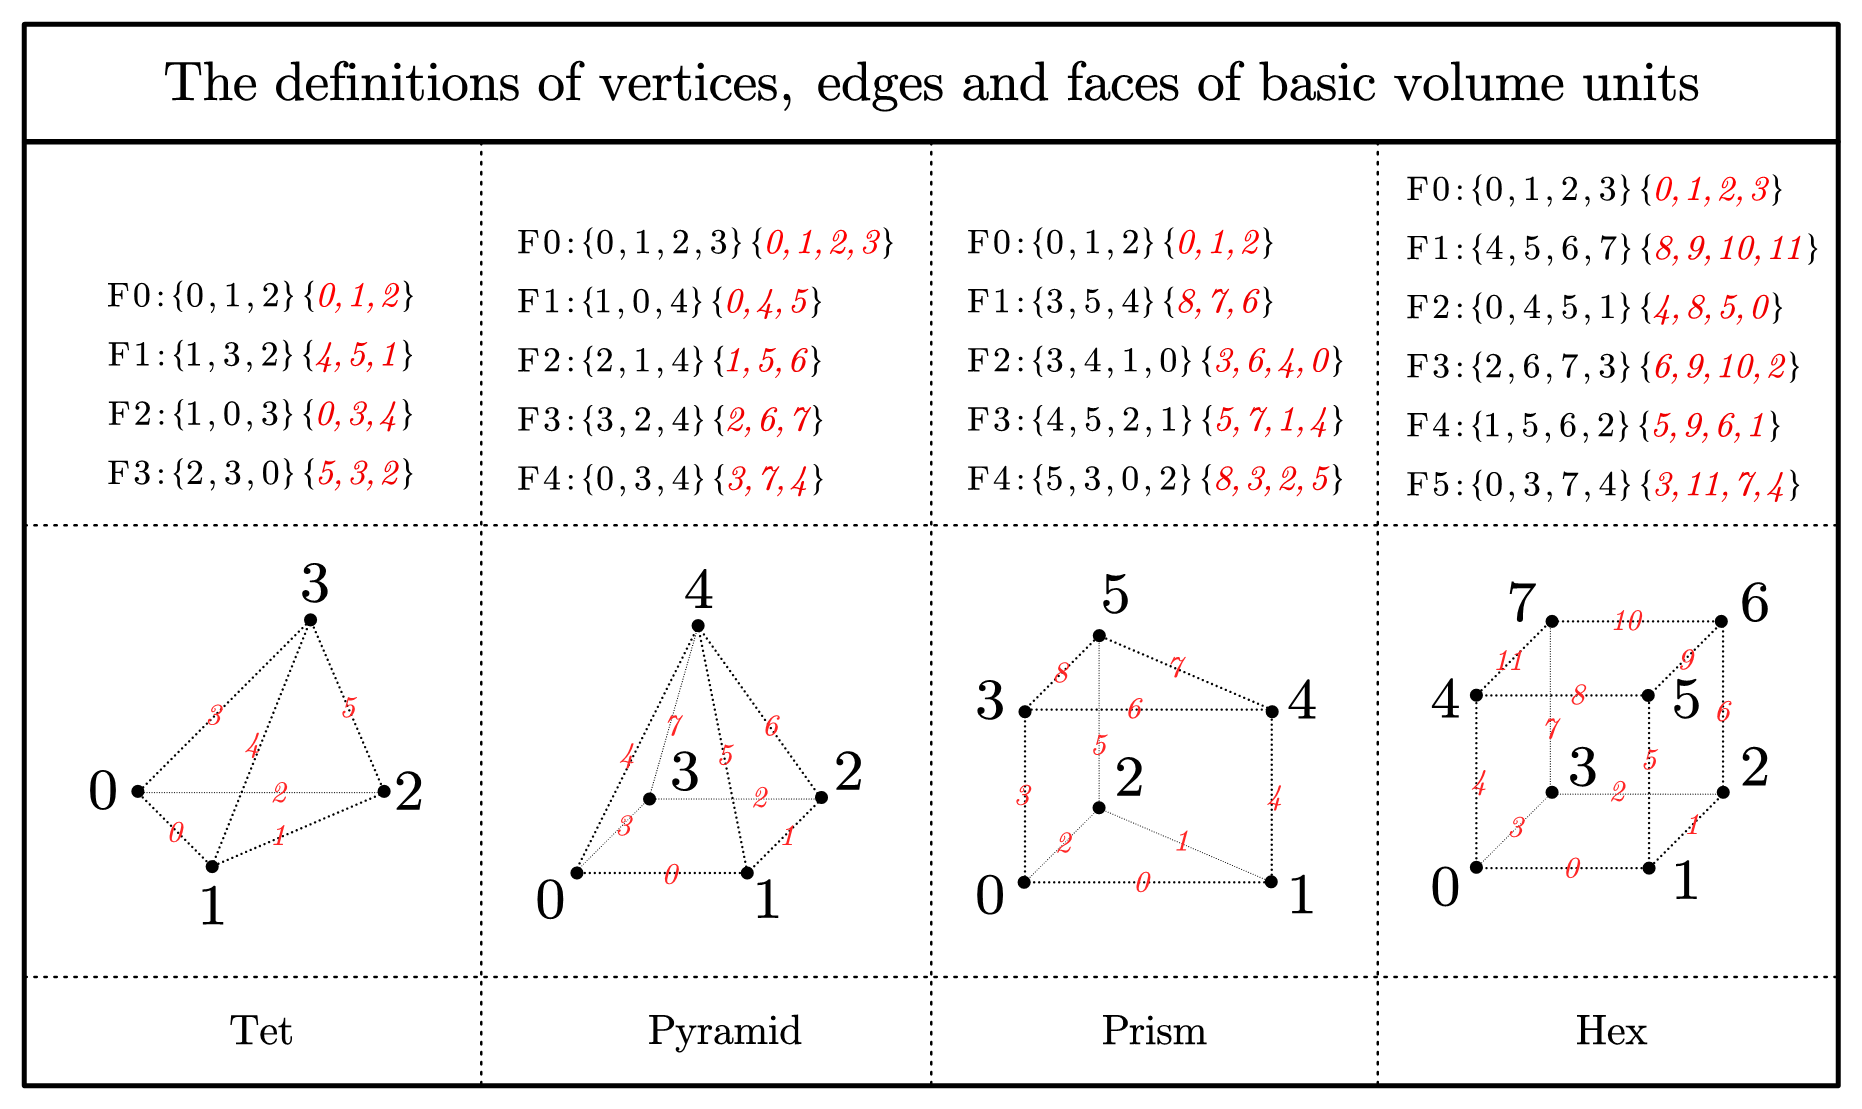
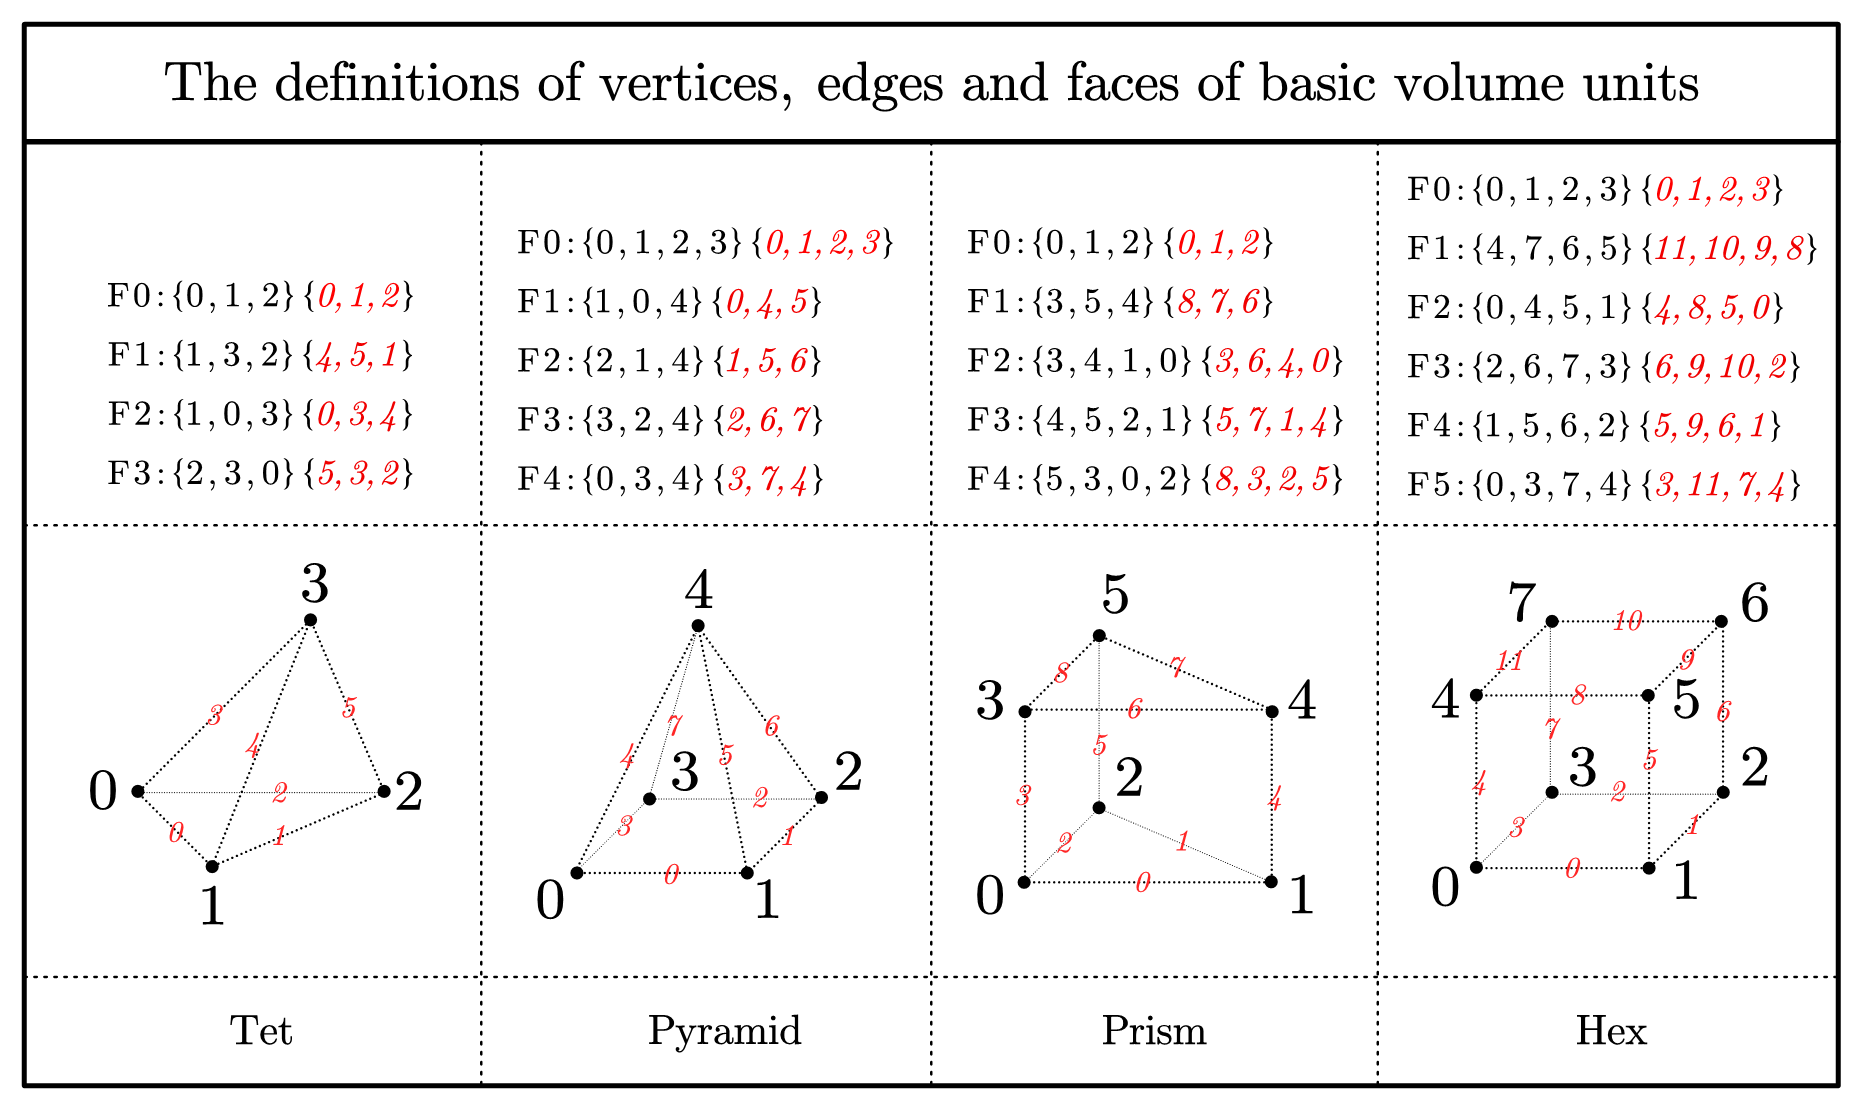
修复六面体的描述符错误

diff --git a/hMesh.h b/hMesh.h
@@ -148,10 +148,10 @@ inline constexpr CellDescriptor<8, 12, 6> HEX = {
     {{{0, 2}, {0, 4}, {0, 3}, {0, 5}, {2, 5}, {2, 4}, {3, 4}, {3, 5}, {1, 2}, {1, 4}, {1, 3}, {1, 5}}},  // 边的邻接边
     6,                                                                                                   // 面数量
     {4, 4, 4, 4, 4, 4},                                                                                  // 面上顶点的数量
-    {{{0, 1, 2, 3}, {4, 5, 6, 7}, {0, 4, 5, 1}, {2, 6, 7, 3}, {1, 5, 6, 2}, {0, 3, 7, 4}}},              // 面上顶点的定义
+    {{{0, 1, 2, 3}, {4, 7, 6, 5}, {0, 4, 5, 1}, {2, 6, 7, 3}, {1, 5, 6, 2}, {0, 3, 7, 4}}},              // 面上顶点的定义
     {4, 4, 4, 4, 4, 4},                                                                                  // 面上边的数量
-    {{{0, 1, 2, 3}, {8, 9, 10, 11}, {4, 8, 5, 0}, {6, 9, 10, 2}, {5, 9, 6, 1}, {3, 11, 7, 4}}}           // 面上边的定义
-};
+    {{{0, 1, 2, 3}, {11, 10, 9, 8}, {4, 8, 5, 0}, {6, 9, 10, 2}, {5, 9, 6, 1}, {3, 11, 7, 4}}}           // 面上边的定义
+};  
 /**
  * @brief 获取指定单元类型的描述符（单元拓扑信息）
  * @param type 单元类型枚举值
